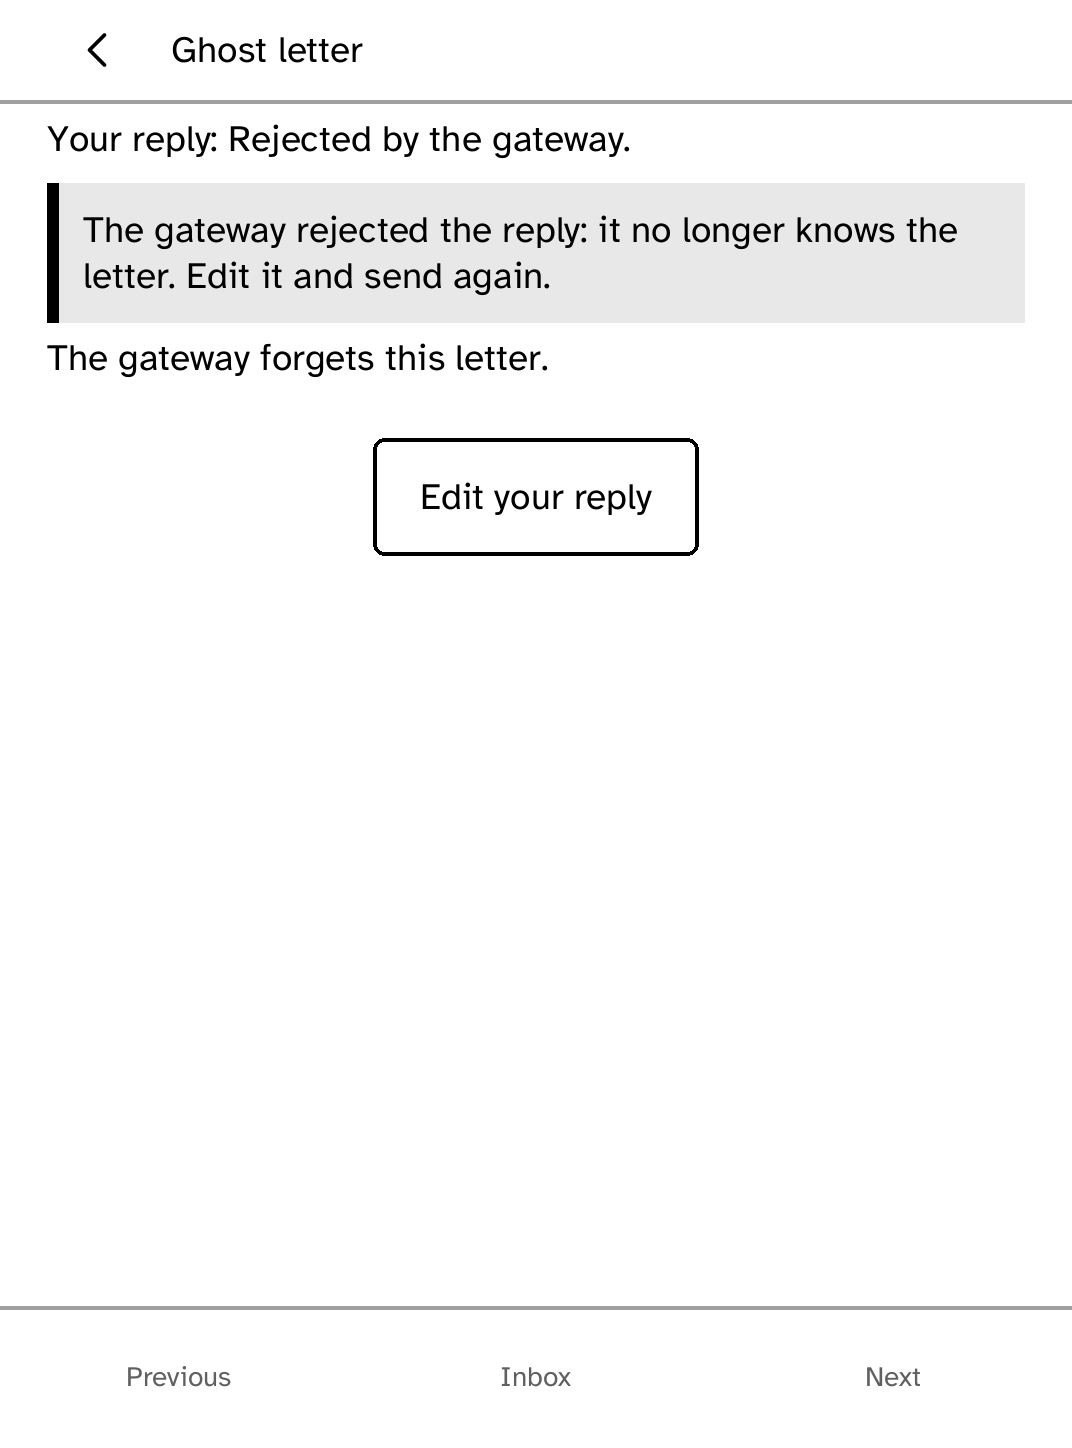
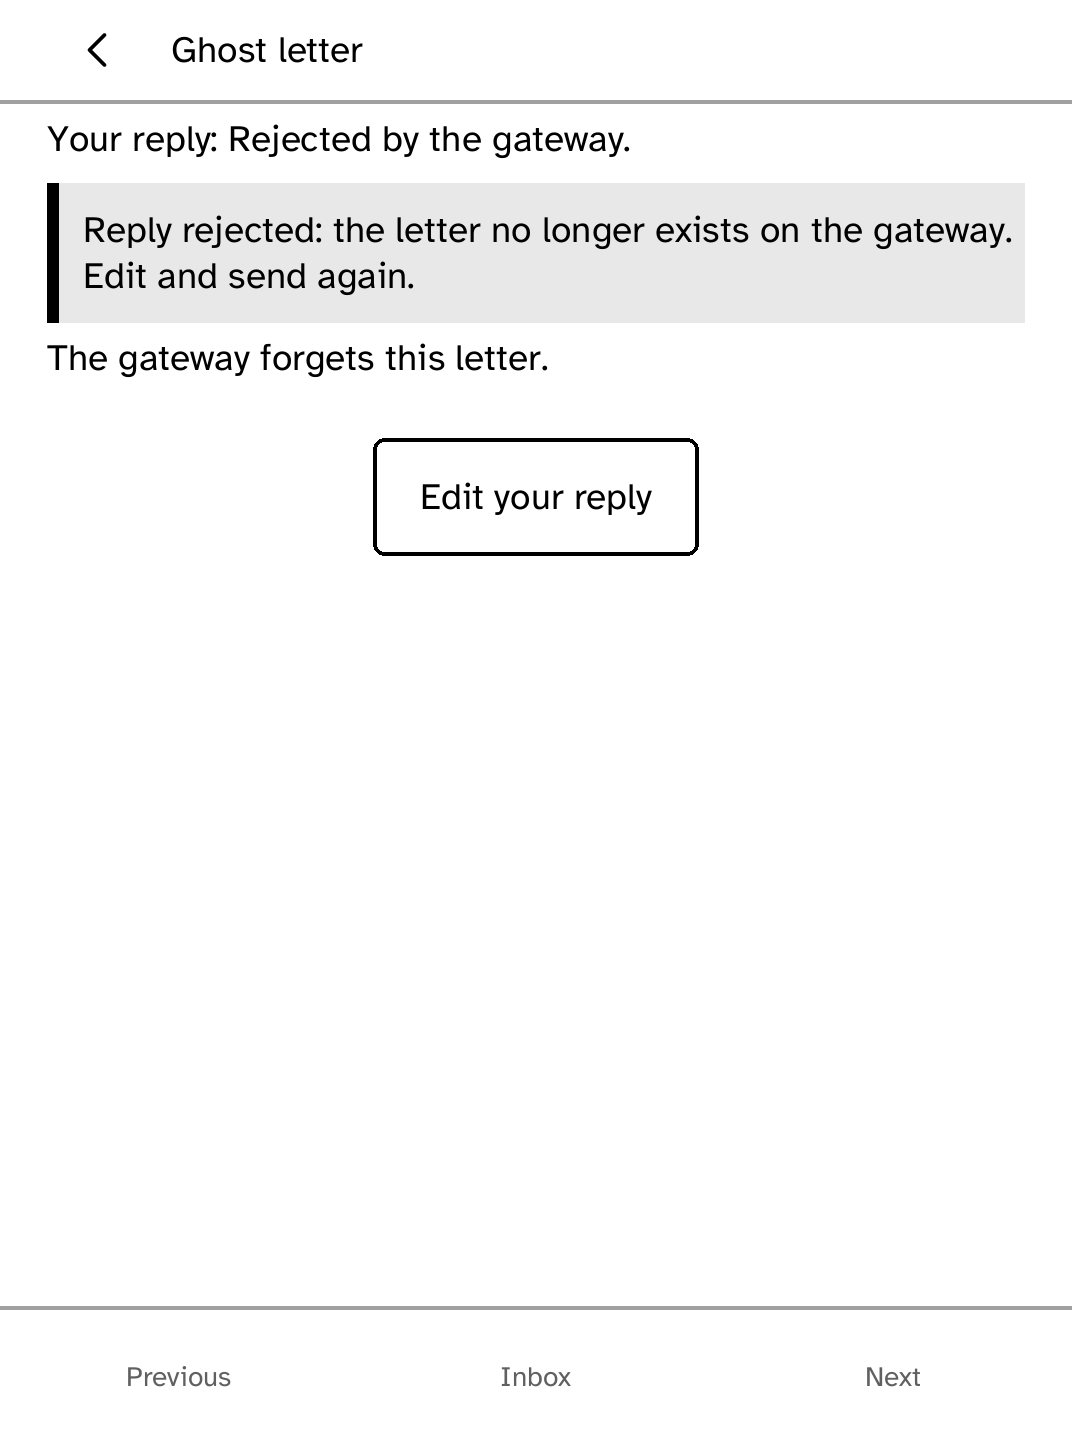
post, readlater, fanshelf: plainer status copy
Status and error lines now say what happened and what to do in as few
words as a professional app would. The reply outbox's rejection reads
'Reply rejected: the letter no longer exists on the gateway. Edit and
send again.' instead of narrating what the gateway knows; rate limits,
queue states and parse failures across the three apps lose the
storytelling ('made no sense', 'asked for a pause', 'atomically') and
keep the facts.

check-post-sim.py and check-fanshelf-sim.py re-run against the new
copy; the rejection and updates screens were re-filmed.

Changed region(s): [[0.0616, 0.1554, 0.9543, 0.2175]]

diff --git a/docs/apps/readlater/index.html b/docs/apps/readlater/index.html
@@ -21,7 +21,7 @@
 <meta name="twitter:description" content="Bring saved Wallabag articles to your Kobo, then archive or favorite them as you read. Install it on a supported Kobo e-reader with Cobalt.">
 <meta name="twitter:image" content="https://bandarlabs.github.io/Cobalt/media/site/apps/readlater.png">
 <meta name="twitter:image:alt" content="Read Later setup screen showing Wallabag credential instructions.">
-<meta http-equiv="Content-Security-Policy" content="default-src 'none'; script-src 'self' 'sha256-0fGdD6AFb2m+qzN9UJARSsM5usS/AhX6dHKtbguyfKM='; style-src 'self'; img-src 'self'; connect-src https://cobalt-install-relay.anandabhishek.workers.dev; base-uri 'none'; form-action 'self'">
+<meta http-equiv="Content-Security-Policy" content="default-src 'none'; script-src 'self' 'sha256-0xDIX1Phpi7D4+sCRRVPO0MubCyPnrs+EmCKOcsTQ6M='; style-src 'self'; img-src 'self'; connect-src https://cobalt-install-relay.anandabhishek.workers.dev; base-uri 'none'; form-action 'self'">
 <script type="application/ld+json">{
   "@context": "https://schema.org",
   "@graph": [
@@ -40,7 +40,7 @@
       "applicationSuite": "Cobalt",
       "applicationCategory": "SoftwareApplication",
       "operatingSystem": "Cobalt on supported Kobo e-readers",
-      "softwareVersion": "0.2.1",
+      "softwareVersion": "0.2.2",
       "isAccessibleForFree": true,
       "offers": {
         "@type": "Offer",
@@ -97,7 +97,7 @@
       <p class="eyebrow">Kobo app</p>
       <h1>Read Later</h1>
       <p class="summary">Bring saved Wallabag articles to your Kobo, then archive or favorite them as you read.</p>
-      <div class="meta"><span>Version 0.2.1</span><span>network</span></div>
+      <div class="meta"><span>Version 0.2.2</span><span>network</span></div>
     </div>
     <figure class="app-shot">
       <img src="../../media/site/apps/readlater.png" width="1072" height="1448" alt="Read Later setup screen showing Wallabag credential instructions.">

diff --git a/docs/apps/fanshelf/index.html b/docs/apps/fanshelf/index.html
@@ -21,7 +21,7 @@
 <meta name="twitter:description" content="Add an AO3 work and keep it ready for comfortable reading on your Kobo. Install it on a supported Kobo e-reader with Cobalt.">
 <meta name="twitter:image" content="https://bandarlabs.github.io/Cobalt/media/site/apps/fanshelf.png">
 <meta name="twitter:image:alt" content="Fanshelf's empty shelf, with Add, Followed tags, and Check updates controls.">
-<meta http-equiv="Content-Security-Policy" content="default-src 'none'; script-src 'self' 'sha256-ahkA6fRu1bH8pjF7JJTdB1VVf3IS1ZACHux6QgDNkKU='; style-src 'self'; img-src 'self'; connect-src https://cobalt-install-relay.anandabhishek.workers.dev; base-uri 'none'; form-action 'self'">
+<meta http-equiv="Content-Security-Policy" content="default-src 'none'; script-src 'self' 'sha256-OqjNevT5K9G3U8N9aMgx0pRJDJy2pRfncH68rUp8VDU='; style-src 'self'; img-src 'self'; connect-src https://cobalt-install-relay.anandabhishek.workers.dev; base-uri 'none'; form-action 'self'">
 <script type="application/ld+json">{
   "@context": "https://schema.org",
   "@graph": [
@@ -40,7 +40,7 @@
       "applicationSuite": "Cobalt",
       "applicationCategory": "SoftwareApplication",
       "operatingSystem": "Cobalt on supported Kobo e-readers",
-      "softwareVersion": "0.2.5",
+      "softwareVersion": "0.2.6",
       "isAccessibleForFree": true,
       "offers": {
         "@type": "Offer",
@@ -97,7 +97,7 @@
       <p class="eyebrow">Kobo app</p>
       <h1>Fanshelf</h1>
       <p class="summary">Add an AO3 work and keep it ready for comfortable reading on your Kobo.</p>
-      <div class="meta"><span>Version 0.2.5</span><span>network</span></div>
+      <div class="meta"><span>Version 0.2.6</span><span>network</span></div>
     </div>
     <figure class="app-shot">
       <img src="../../media/site/apps/fanshelf.png" width="1072" height="1448" alt="Fanshelf's empty shelf, with Add, Followed tags, and Check updates controls.">

diff --git a/docs/apps/post/index.html b/docs/apps/post/index.html
@@ -21,7 +21,7 @@
 <meta name="twitter:description" content="A calm, letter-style inbox for thoughtful messages you can read anywhere. Install it on a supported Kobo e-reader with Cobalt.">
 <meta name="twitter:image" content="https://bandarlabs.github.io/Cobalt/media/site/apps/post.png">
 <meta name="twitter:image:alt" content="Post inbox showing completed Hermes letters, newest first.">
-<meta http-equiv="Content-Security-Policy" content="default-src 'none'; script-src 'self' 'sha256-Zie/O+nhcV2Bgs+H1qYRu3tOmtMR/3aQZb6qSNWylfM='; style-src 'self'; img-src 'self'; connect-src https://cobalt-install-relay.anandabhishek.workers.dev; base-uri 'none'; form-action 'self'">
+<meta http-equiv="Content-Security-Policy" content="default-src 'none'; script-src 'self' 'sha256-EHo7zXF2R2rjziRW7t1YiZO7Z7nCtIPhlFFmVQ9Omdc='; style-src 'self'; img-src 'self'; connect-src https://cobalt-install-relay.anandabhishek.workers.dev; base-uri 'none'; form-action 'self'">
 <script type="application/ld+json">{
   "@context": "https://schema.org",
   "@graph": [
@@ -40,7 +40,7 @@
       "applicationSuite": "Cobalt",
       "applicationCategory": "SoftwareApplication",
       "operatingSystem": "Cobalt on supported Kobo e-readers",
-      "softwareVersion": "0.2.0",
+      "softwareVersion": "0.2.1",
       "isAccessibleForFree": true,
       "offers": {
         "@type": "Offer",
@@ -97,7 +97,7 @@
       <p class="eyebrow">Kobo app</p>
       <h1>Post</h1>
       <p class="summary">A calm, letter-style inbox for thoughtful messages you can read anywhere.</p>
-      <div class="meta"><span>Version 0.2.0</span><span>network</span></div>
+      <div class="meta"><span>Version 0.2.1</span><span>network</span></div>
     </div>
     <figure class="app-shot">
       <img src="../../media/site/apps/post.png" width="1072" height="1448" alt="Post inbox showing completed Hermes letters, newest first.">

diff --git a/apps/fanshelf/src/main.rs b/apps/fanshelf/src/main.rs
@@ -525,7 +525,7 @@ impl Fanshelf {
             .top_bar("Manual updates")
             .top_bar_action("check-all", "Check all")
             .top_bar_action("shelf", "Shelf")
-            .secondary("Nothing runs in the background. This button is the schedule.");
+            .secondary("Updates are manual. Nothing runs in the background.");
         if wips.is_empty() {
             screen = screen.splash(
                 Some(Glyph::Check),
@@ -598,7 +598,7 @@ impl Fanshelf {
             self.sent_request = true;
             self.task = Some((task, Active::Fetching(request)));
         } else {
-            self.message = Some("Fanshelf could not start another request yet.".into());
+            self.message = Some("One request at a time. Try again in a moment.".into());
         }
     }
 
@@ -657,7 +657,8 @@ impl Fanshelf {
             ParsedWork::Locked => self.message = Some(LOCKED.into()),
             ParsedWork::Missing => self.message = Some(REMOVED.into()),
             ParsedWork::Malformed => {
-                self.message = Some("AO3 returned a page Fanshelf could not safely parse.".into());
+                self.message =
+                    Some("Couldn't read AO3's answer. Nothing on the shelf changed.".into());
             }
         }
     }
@@ -700,7 +701,8 @@ impl Fanshelf {
                 self.message = Some(REMOVED.into());
             }
             ParsedWork::Malformed => {
-                self.message = Some("AO3 returned a page Fanshelf could not safely parse.".into());
+                self.message =
+                    Some("Couldn't read AO3's answer. Nothing on the shelf changed.".into());
             }
         }
     }
@@ -740,7 +742,7 @@ impl Fanshelf {
         upload.start(context);
         self.upload = Some(upload);
         self.upload_work = Some(work);
-        self.message = Some("Saving EPUB atomically…".into());
+        self.message = Some("Saving EPUB…".into());
     }
 
     fn start_read(&mut self, context: &mut Context, work: usize) {
@@ -942,9 +944,8 @@ impl KoboApp for Fanshelf {
                         if self.open_after_upload {
                             self.start_read(context, work);
                         } else {
-                            self.message = Some(
-                                "Updated EPUB saved; your reading position is preserved.".into(),
-                            );
+                            self.message =
+                                Some("Updated EPUB saved. Reading position kept.".into());
                         }
                     }
                     self.bytes.clear();
@@ -1017,7 +1018,7 @@ impl KoboApp for Fanshelf {
                         self.tags.push(tag);
                         self.save_tags(context);
                         self.view = View::Follow;
-                        self.message = Some("Tag followed. Open it to fetch its Atom feed.".into());
+                        self.message = Some("Tag followed. Open it to check for new works.".into());
                     }
                 } else {
                     self.message = Some("Enter an AO3 tag name or tag URL.".into());

diff --git a/apps/post/src/main.rs b/apps/post/src/main.rs
@@ -338,21 +338,20 @@ impl Post {
                 } else {
                     sent.state = ReplyState::Queued;
                     self.notice =
-                        Some("The gateway's answer made no sense; the reply stays queued.".into());
+                        Some("Couldn't read the gateway's answer. The reply stays queued.".into());
                 }
             }
             TaskOutcome::Failed(TaskError::NotFound) => {
                 sent.state = ReplyState::Rejected;
                 self.notice = Some(
-                    "The gateway rejected the reply: it no longer knows the letter. Edit it and send again."
+                    "Reply rejected: the letter no longer exists on the gateway. Edit and send again."
                         .into(),
                 );
             }
             TaskOutcome::Failed(TaskError::TooLarge) => {
                 sent.state = ReplyState::Rejected;
-                self.notice = Some(
-                    "The reply is too long for the gateway. Shorten it and send again.".into(),
-                );
+                self.notice =
+                    Some("Reply too long for the gateway. Shorten and send again.".into());
             }
             TaskOutcome::Failed(TaskError::NoCredential | TaskError::Unauthorized) => {
                 sent.state = ReplyState::Queued;
@@ -361,14 +360,12 @@ impl Post {
             }
             TaskOutcome::Failed(TaskError::RateLimited(_)) => {
                 sent.state = ReplyState::Queued;
-                self.notice = Some(
-                    "The gateway asked for a pause; the reply will send on the next check.".into(),
-                );
+                self.notice =
+                    Some("Rate limited by the gateway. The reply sends on the next check.".into());
             }
             TaskOutcome::Failed(_) | TaskOutcome::Cancelled => {
                 sent.state = ReplyState::Queued;
-                self.notice =
-                    Some("The reply is still queued; it will send on the next connection.".into());
+                self.notice = Some("Reply still queued. It sends on the next connection.".into());
             }
         }
         let delivered = completed && sent.state == ReplyState::Delivered;

diff --git a/scripts/quality/check-post-sim.py b/scripts/quality/check-post-sim.py
@@ -208,7 +208,7 @@ def main():
 
                 drive('tap Inbox', 'tap Flaky line', 'wait-for drops once')
                 drive('tap Write a reply', 'type Sending this twice would be wrong',
-                      'tap Send letter', 'wait-for still queued', timeout=300)
+                      'tap Send letter', 'wait-for Reply still queued', timeout=300)
                 drive('tap Inbox', 'tap Check', 'wait-for Sent to Hermes.',
                       timeout=300)
                 flaky = [r for r in gateway.replies if r['letter_id'] == 'l-03']
@@ -220,7 +220,7 @@ def main():
 
                 drive('tap Ghost letter', 'wait-for forgets this letter')
                 drive('tap Write a reply', 'type Anybody there',
-                      'tap Send letter', 'wait-for no longer knows the letter',
+                      'tap Send letter', 'wait-for no longer exists on the gateway',
                       'wait-idle', timeout=300)
                 capture('post-rejected')
                 result['checks'].append(dict(

diff --git a/apps/readlater/src/main.rs b/apps/readlater/src/main.rs
@@ -412,7 +412,8 @@ impl ReadLater {
     /// places carry over only within one library, never across servers by id.
     fn queue_completed(&mut self, context: &mut Context, origin: &str, bytes: &[u8]) {
         let Some(mut entries) = wallabag::parse_entries(bytes) else {
-            self.notice = Some("The reading list could not be loaded. Your current articles are unchanged. Try syncing again.".into());
+            self.notice =
+                Some("Couldn't load the reading list. Current articles are unchanged.".into());
             return;
         };
         if self.entries_origin.as_deref() == Some(origin) {
